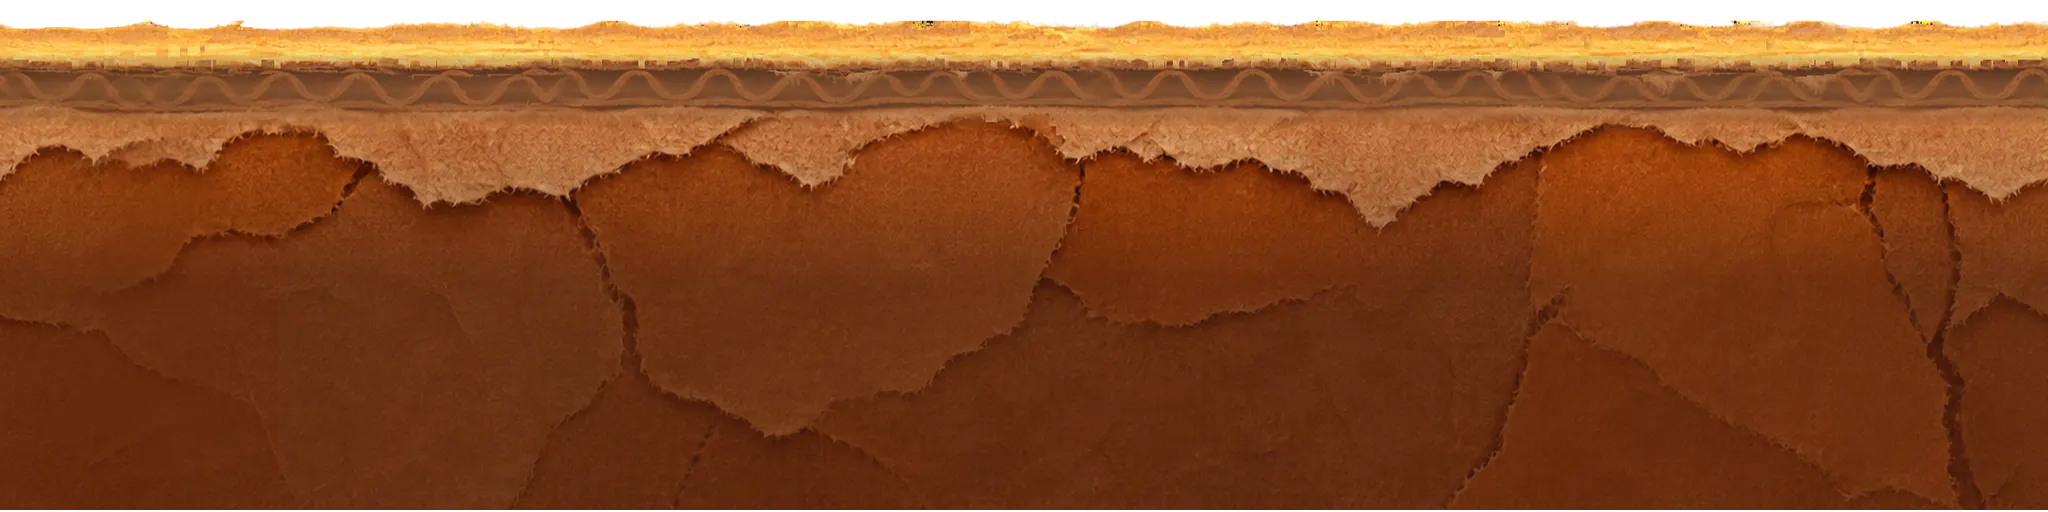
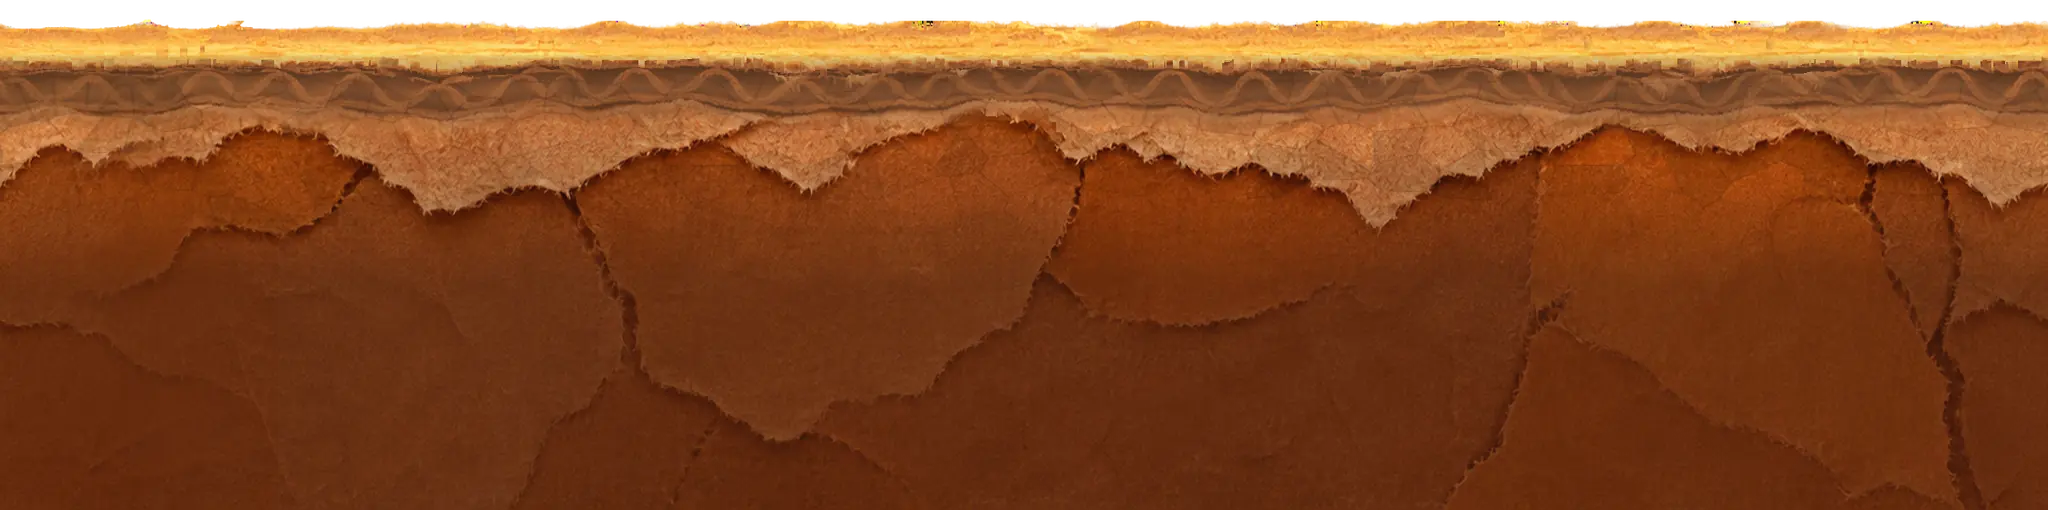
Capas: suelo con piedra irregular abajo del canto, piedras de primer plano a alfa 0.2

diff --git a/src/art/atardecer.js b/src/art/atardecer.js
@@ -52,7 +52,7 @@ export const TARDE = {
   sol: { x: 0.84, y: 262, r: 54, depth: 1.92, fill: '#FFD56B', canto: '#F7B24A' }, // bajo a la derecha, medio tapado por la colina media
   shadowK: 0.7, // sombras cortas
   piezasTorn: 0.2, // las losas de cartón del suelo se leían como obstáculo o bache: quedan como mancha del propio kraft
-  piedra: { tinte: 0xd8a878, alfa: 0.4 }, // CAPAS: UNIR Y PISOS: las piedras de primer plano, 3 de 3 críticos las nombran como peligro; quedan como mancha del suelo
+  piedra: { tinte: 0xd8a878, alfa: 0.2 }, // CAPAS: UNIR Y PISOS: las piedras de primer plano, 3 de 3 críticos las nombran como peligro; quedan como mancha del suelo
   cartel: false, // el cartel de lección en su poste (fondo vivo, no mecánica): 2 de 3 leen el poste como obstáculo y tapa el aire donde se decide el salto
   // Ficha: la de siempre es kraft y se pierde contra el suelo #CD9468; oscura se leía como anillo de peligro. Cara dorada de la luz del sol (ningún color
   // claro llega a 3.0 contra el suelo) y filo oscuro, que es el que da el contraste contra el suelo y contra el cielo.
